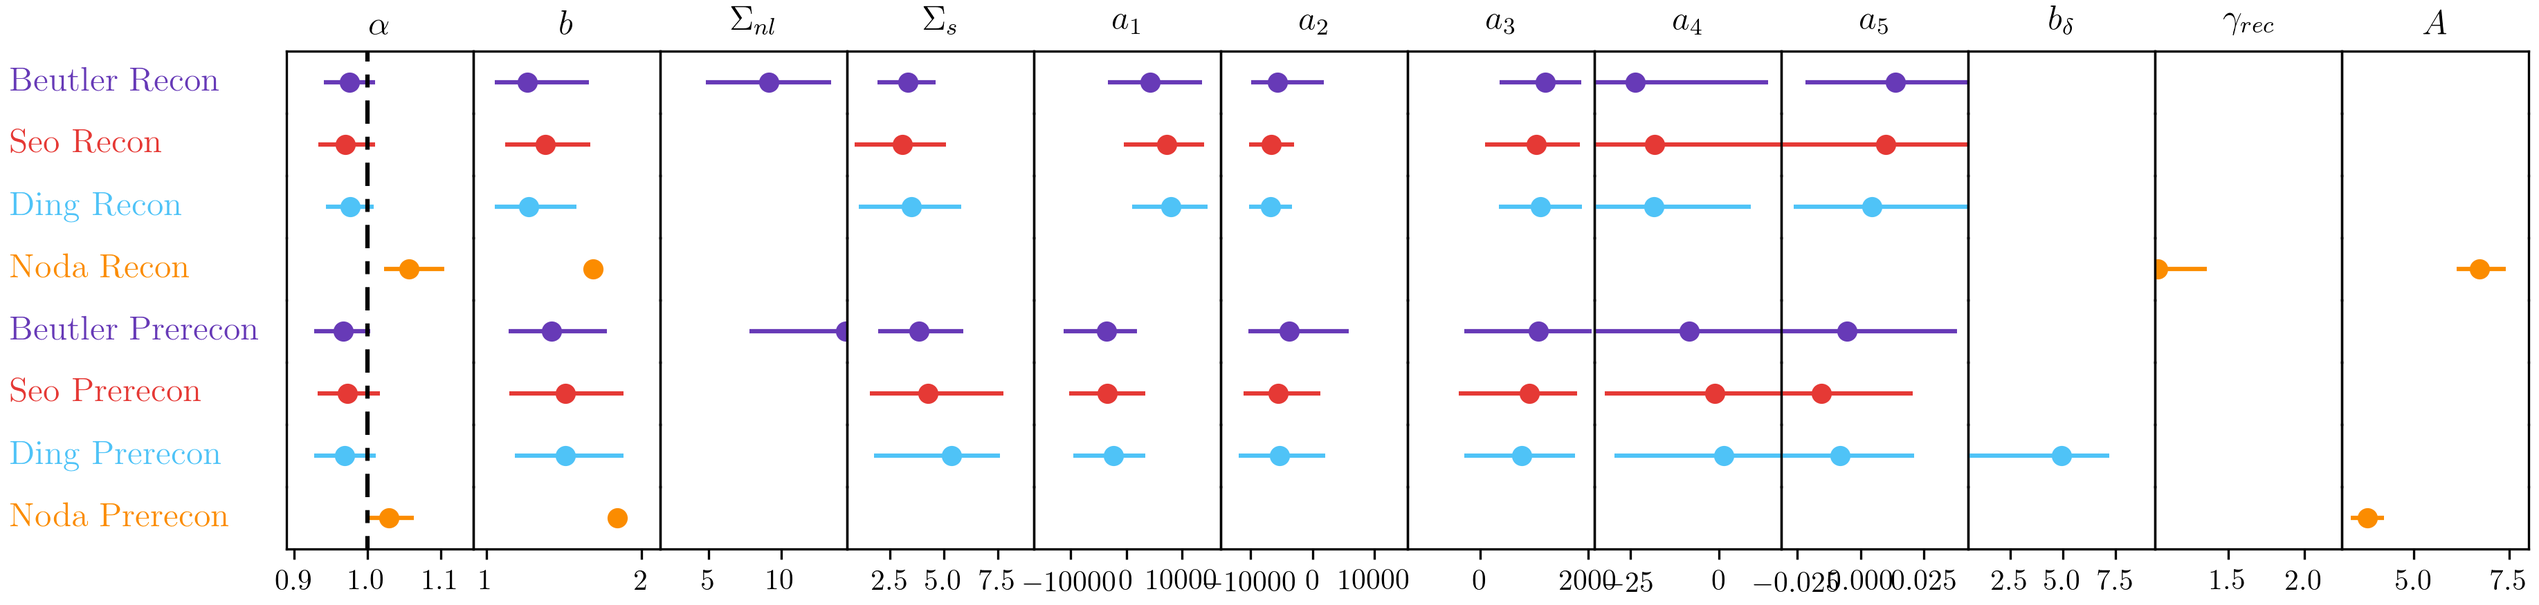
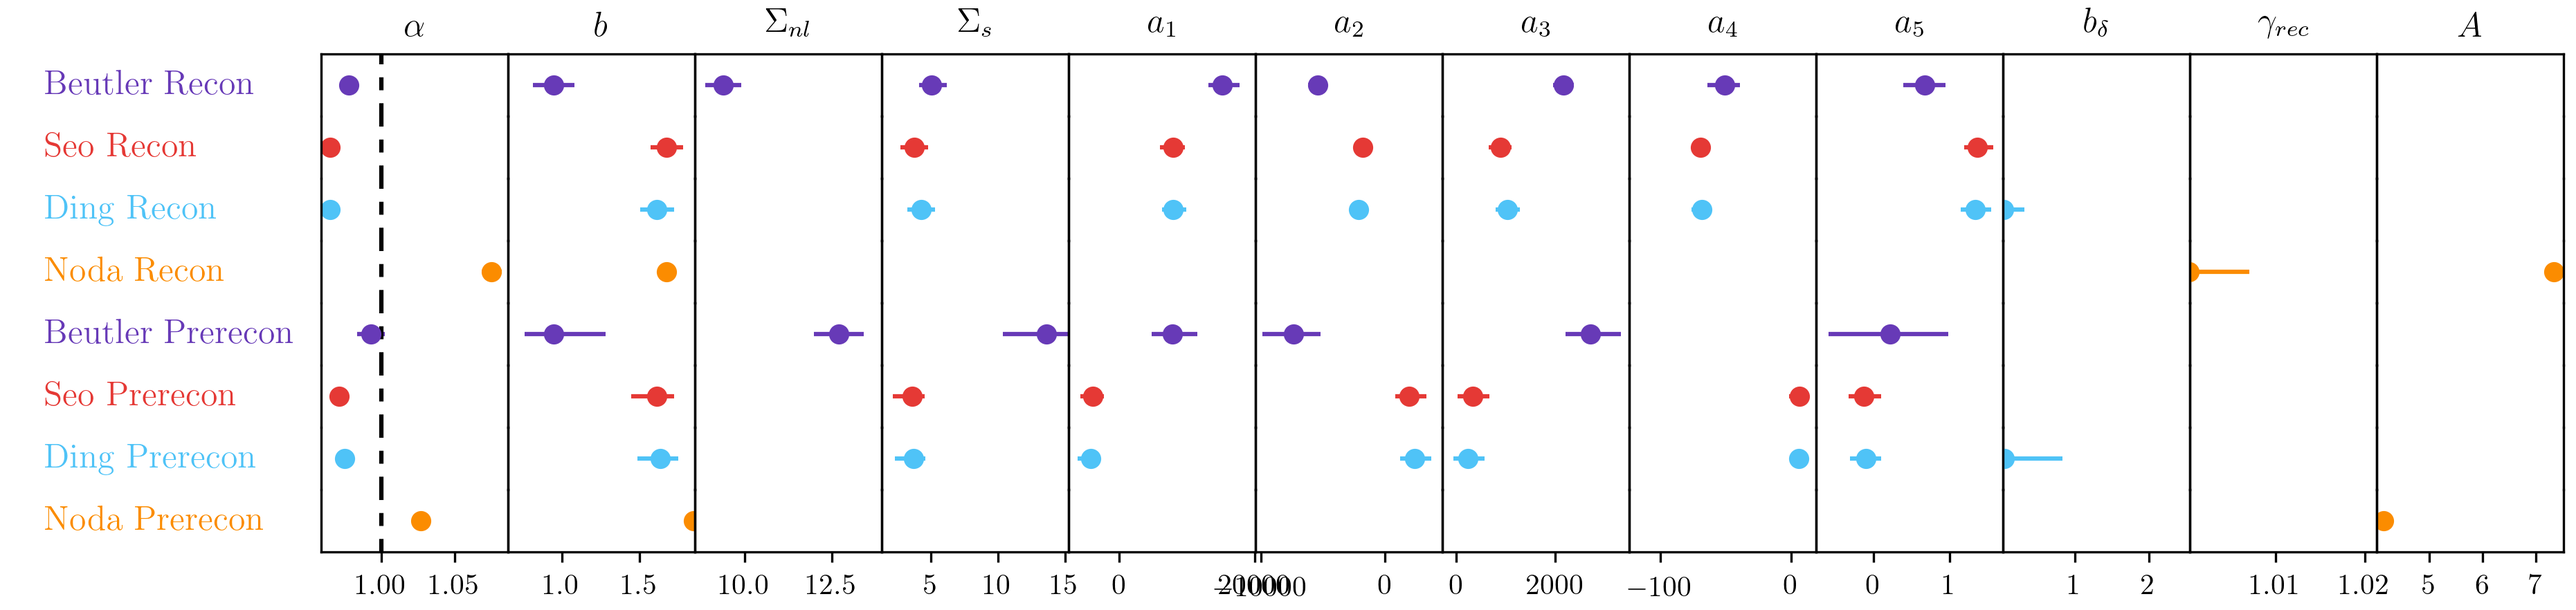
Testing Seo and Ding independently on pklin. Output of large pk_avg run. Doesn't look good.

diff --git a/investigations/does_seo_prerecon_recover_pklin.py b/investigations/does_seo_prerecon_recover_pklin.py
@@ -1,17 +1,17 @@
 import logging
 
-from barry.framework.models import PowerBeutler2017
+from barry.framework.models import PowerSeo2016
 
 if __name__ == "__main__":
     logging.basicConfig(level=logging.DEBUG, format="[%(levelname)7s |%(funcName)20s]   %(message)s")
     logging.getLogger("matplotlib").setLevel(logging.ERROR)
     recon = True
-    model1 = PowerBeutler2017(recon=recon, name=f"Beutler2017, recon={recon}")
-    model_smooth = PowerBeutler2017(recon=recon, name=f"Beutler2017, recon={recon}", smooth=True)
+    model1 = PowerSeo2016(recon=recon, name=f"Seo2016, recon={recon}")
+    model_smooth = PowerSeo2016(recon=recon, name=f"Seo2016, recon={recon}", smooth=True)
 
     from barry.framework.datasets.mock_power import MockPowerSpectrum
     from barry.framework.datasets.dummy_power import DummyPowerSpectrum
-    dataset1 = MockPowerSpectrum(name="Recon mean", recon=recon, min_k=0.02, max_k=0.3, reduce_cov_factor=30, step_size=3)
+    dataset1 = MockPowerSpectrum(name="PreRecon mean", recon=recon, min_k=0.02, max_k=0.3, reduce_cov_factor=30, step_size=3)
     dataset2 = DummyPowerSpectrum(name="Dummy data, real window fn", min_k=0.02, max_k=0.25, step_size=2, dummy_window=False)
     dataset3 = DummyPowerSpectrum(name="DummyWindowFnToo", min_k=0.02, max_k=0.25, step_size=2, dummy_window=True)
     data1 = dataset1.get_data()
@@ -46,4 +46,3 @@ if __name__ == "__main__":
     model1.plot(p, smooth_params=p2)
 
     # FINDINGS
-    # Yes, Beutler2017 can thankfully fit pklin perfectly.

diff --git a/investigations/does_ding_prerecon_recover_pklin.py b/investigations/does_ding_prerecon_recover_pklin.py
@@ -1,13 +1,13 @@
 import logging
 
-from barry.framework.models import PowerBeutler2017
+from barry.framework.models import PowerSeo2016, PowerDing2018
 
 if __name__ == "__main__":
     logging.basicConfig(level=logging.DEBUG, format="[%(levelname)7s |%(funcName)20s]   %(message)s")
     logging.getLogger("matplotlib").setLevel(logging.ERROR)
-    recon = True
-    model1 = PowerBeutler2017(recon=recon, name=f"Beutler2017, recon={recon}")
-    model_smooth = PowerBeutler2017(recon=recon, name=f"Beutler2017, recon={recon}", smooth=True)
+    recon = False
+    model1 = PowerDing2018(recon=recon, name=f"Ding2018, recon={recon}")
+    model_smooth = PowerDing2018(recon=recon, name=f"Ding2018, recon={recon}", smooth=True)
 
     from barry.framework.datasets.mock_power import MockPowerSpectrum
     from barry.framework.datasets.dummy_power import DummyPowerSpectrum
@@ -46,4 +46,4 @@ if __name__ == "__main__":
     model1.plot(p, smooth_params=p2)
 
     # FINDINGS
-    # Yes, Beutler2017 can thankfully fit pklin perfectly.
+    # Yes, Ding recon recovers pklin

diff --git a/investigations/does_seo_recon_recover_pklin.py b/investigations/does_seo_recon_recover_pklin.py
@@ -1,13 +1,13 @@
 import logging
 
-from barry.framework.models import PowerBeutler2017
+from barry.framework.models import PowerSeo2016
 
 if __name__ == "__main__":
     logging.basicConfig(level=logging.DEBUG, format="[%(levelname)7s |%(funcName)20s]   %(message)s")
     logging.getLogger("matplotlib").setLevel(logging.ERROR)
     recon = True
-    model1 = PowerBeutler2017(recon=recon, name=f"Beutler2017, recon={recon}")
-    model_smooth = PowerBeutler2017(recon=recon, name=f"Beutler2017, recon={recon}", smooth=True)
+    model1 = PowerSeo2016(recon=recon, name=f"Seo2016, recon={recon}")
+    model_smooth = PowerSeo2016(recon=recon, name=f"Seo2016, recon={recon}", smooth=True)
 
     from barry.framework.datasets.mock_power import MockPowerSpectrum
     from barry.framework.datasets.dummy_power import DummyPowerSpectrum
@@ -46,4 +46,4 @@ if __name__ == "__main__":
     model1.plot(p, smooth_params=p2)
 
     # FINDINGS
-    # Yes, Beutler2017 can thankfully fit pklin perfectly.
+    # Yes, Seo recon recovers pklin

diff --git a/investigations/does_ding_recon_recover_pklin.py b/investigations/does_ding_recon_recover_pklin.py
@@ -1,13 +1,13 @@
 import logging
 
-from barry.framework.models import PowerBeutler2017
+from barry.framework.models import PowerSeo2016, PowerDing2018
 
 if __name__ == "__main__":
     logging.basicConfig(level=logging.DEBUG, format="[%(levelname)7s |%(funcName)20s]   %(message)s")
     logging.getLogger("matplotlib").setLevel(logging.ERROR)
     recon = True
-    model1 = PowerBeutler2017(recon=recon, name=f"Beutler2017, recon={recon}")
-    model_smooth = PowerBeutler2017(recon=recon, name=f"Beutler2017, recon={recon}", smooth=True)
+    model1 = PowerDing2018(recon=recon, name=f"Ding2018, recon={recon}")
+    model_smooth = PowerDing2018(recon=recon, name=f"Ding2018, recon={recon}", smooth=True)
 
     from barry.framework.datasets.mock_power import MockPowerSpectrum
     from barry.framework.datasets.dummy_power import DummyPowerSpectrum
@@ -46,4 +46,3 @@ if __name__ == "__main__":
     model1.plot(p, smooth_params=p2)
 
     # FINDINGS
-    # Yes, Beutler2017 can thankfully fit pklin perfectly.

diff --git a/barry/framework/models/bao_power_Seo2016.py b/barry/framework/models/bao_power_Seo2016.py
@@ -10,12 +10,12 @@ from barry.framework.cosmology.PT_generator import PTGenerator
 
 class PowerSeo2016(PowerSpectrumFit):
 
-    def __init__(self, fix_params=["om", "f"], smooth_type="hinton2017", recon=False, recon_smoothing_scale=21.21, name="Pk Seo 2016", postprocess=None):
+    def __init__(self, fix_params=["om", "f"], smooth_type="hinton2017", recon=False, recon_smoothing_scale=21.21, name="Pk Seo 2016", postprocess=None, smooth=False):
         self.recon = recon
         self.recon_smoothing_scale = recon_smoothing_scale
         self.fit_omega_m = fix_params is None or "om" not in fix_params
         self.fit_growth = fix_params is None or "f" not in fix_params
-        super().__init__(fix_params=fix_params, smooth_type=smooth_type, name=name, postprocess=postprocess)
+        super().__init__(fix_params=fix_params, smooth_type=smooth_type, name=name, postprocess=postprocess, smooth=smooth)
 
         self.nmu = 100
         self.mu = np.linspace(0.0, 1.0, self.nmu)

diff --git a/barry/framework/models/bao_power_Ding2018.py b/barry/framework/models/bao_power_Ding2018.py
@@ -10,11 +10,11 @@ from barry.framework.cosmology.PT_generator import PTGenerator
 
 class PowerDing2018(PowerSpectrumFit):
 
-    def __init__(self, fix_params=["om", "f"], fit_growth=False, smooth_type="hinton2017", recon=False, recon_smoothing_scale=21.21, name="Pk Ding 2018", postprocess=None):
+    def __init__(self, fix_params=["om", "f"], fit_growth=False, smooth_type="hinton2017", recon=False, recon_smoothing_scale=21.21, name="Pk Ding 2018", postprocess=None, smooth=False):
         self.recon = recon
         self.recon_smoothing_scale = recon_smoothing_scale
         self.fit_growth = fit_growth
-        super().__init__(fix_params=fix_params, smooth_type=smooth_type, name=name, postprocess=postprocess)
+        super().__init__(fix_params=fix_params, smooth_type=smooth_type, name=name, postprocess=postprocess, smooth=smooth)
 
         self.nmu = 100
         self.mu = np.linspace(0.0, 1.0, self.nmu)

diff --git a/config/pk_avg.py b/config/pk_avg.py
@@ -41,12 +41,12 @@ if __name__ == "__main__":
         c = ChainConsumer()
         for posterior, weight, chain, model, data, extra in fitter.load():
             c.add_chain(chain, weights=weight, parameters=model.get_labels(), **extra)
-        c.configure(shade=True, bins=20, legend_artists=True)
+        c.configure(shade=True, bins=30, legend_artists=True)
         c.plotter.plot(filename=pfn + "_contour.png", truth={"$\\Omega_m$": 0.3121, '$\\alpha$': 1.0})
-        c.plotter.plot_walks(filename=pfn + "_walks.png", truth={"$\\Omega_m$": 0.3121, '$\\alpha$': 1.0})
         c.plotter.plot_summary(filename=pfn + "_summary.png", errorbar=True, truth={"$\\Omega_m$": 0.3121, '$\\alpha$': 1.0})
         with open(pfn + "_params.txt", "w") as f:
             f.write(c.analysis.get_latex_table())
+        # c.plotter.plot_walks(filename=pfn + "_walks.png", truth={"$\\Omega_m$": 0.3121, '$\\alpha$': 1.0})
 
 
 

diff --git a/investigations/does_beutler_recover_taipan_avg.py b/investigations/does_beutler_recover_taipan_avg.py
@@ -22,3 +22,7 @@ if __name__ == "__main__":
         print(p)
         print(minv)
         model1.plot(p, smooth_params=p2)
+
+    # FINDINGS
+    # Looks like we recover alpha alright with the pre recon
+    # But not with the post recon, where alpha fits too low
